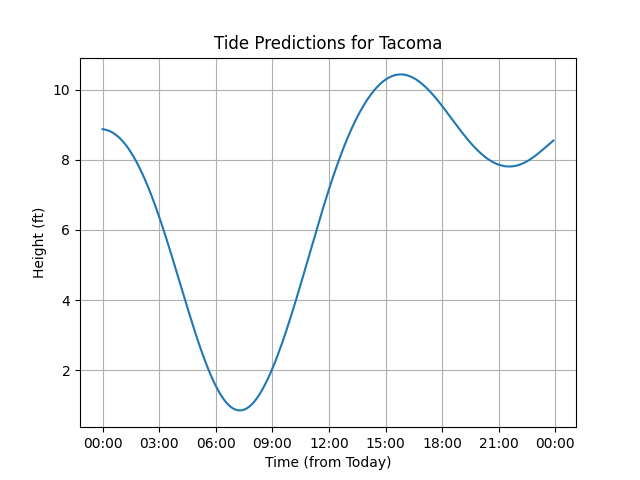
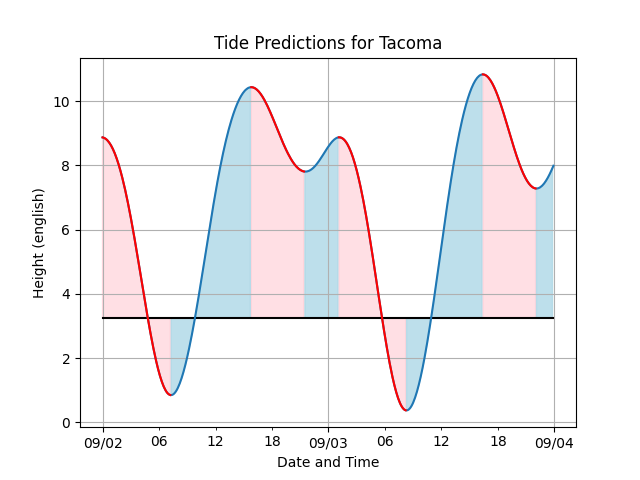
grpahic updates

diff --git a/datalink.py b/datalink.py
@@ -4,6 +4,9 @@ import json
 from typing import Dict
 import matplotlib.pyplot as plt
 import matplotlib.dates as mdates
+from matplotlib.ticker import (MultipleLocator, AutoMinorLocator)
+import numpy as np
+from scipy.signal import find_peaks
 # import pandas as pd
 
 stations: Dict = {
@@ -19,12 +22,13 @@ station = 'tacoma'
 product = 'predictions'
 time_type = 'lst_ldt'
 data_units = 'english' # metric or english
-units = 'ft'
+units = 'english'
 if data_units == 'metric':
     units = 'm'
 data_format = 'json'
-begin_date = datetime.now().strftime('%Y%m%d')
-days_ahead = 0
+days_behind = 0
+begin_date = (datetime.now() - timedelta(days=days_behind)).strftime('%Y%m%d')
+days_ahead = 1
 end_date = (datetime.today() + timedelta(days=days_ahead)).strftime('%Y%m%d')
 
 datum = 'MLLW'
@@ -53,10 +57,47 @@ for dictionary in predictions:
         else:
             heights.append(float(value))
 
+
+
+# peaks, _ = find_peaks(np.array(heights))
+# print([heights[peak] for peak in peaks])
+
+# valleys, _ = find_peaks(-np.array(heights))
+# print([heights[valley] for valley in valleys])
+
+# for i, height in enumerate(heights):
+#     print(i, height)
+
+asc_ht = []
+asc_time = []
+desc_ht = []
+desc_time = []
+
+for i in range(len(heights) - 1):
+    change = heights[i + 1] - heights[i]
+    # print(i, change, change < 0)
+    if change < 0:
+        desc_ht.append(heights[i])
+        desc_time.append(times[i])
+        asc_ht.append(np.nan)
+        asc_time.append(times[i])
+    else:
+        desc_ht.append(np.nan)
+        desc_time.append(times[i])
+        asc_ht.append(heights[i])
+        asc_time.append(times[i])
+
+plt.plot(times, [3.25]*len(times), color='black')
 plt.plot(times, heights)
+plt.plot(desc_time, desc_ht, color='red')
+plt.fill_between(desc_time, desc_ht, 3.25, color='pink', alpha=0.5)
+plt.fill_between(asc_time, asc_ht, 3.25, color='lightblue', alpha=0.8)
 ax = plt.gca()
-ax.xaxis.set_major_formatter(mdates.DateFormatter('%H:%M'))
-plt.xlabel('Time (from Today)')
+ax.xaxis.set_major_locator(mdates.DayLocator())
+ax.xaxis.set_major_formatter(mdates.DateFormatter('%m/%d'))
+ax.xaxis.set_minor_locator(mdates.HourLocator(np.arange(0,24,6)))
+ax.xaxis.set_minor_formatter(mdates.DateFormatter('%H'))
+plt.xlabel('Date and Time')
 plt.ylabel(f'Height ({units})')
 plt.grid(True)
 plt.title(f'Tide Predictions for {station.title()}')
